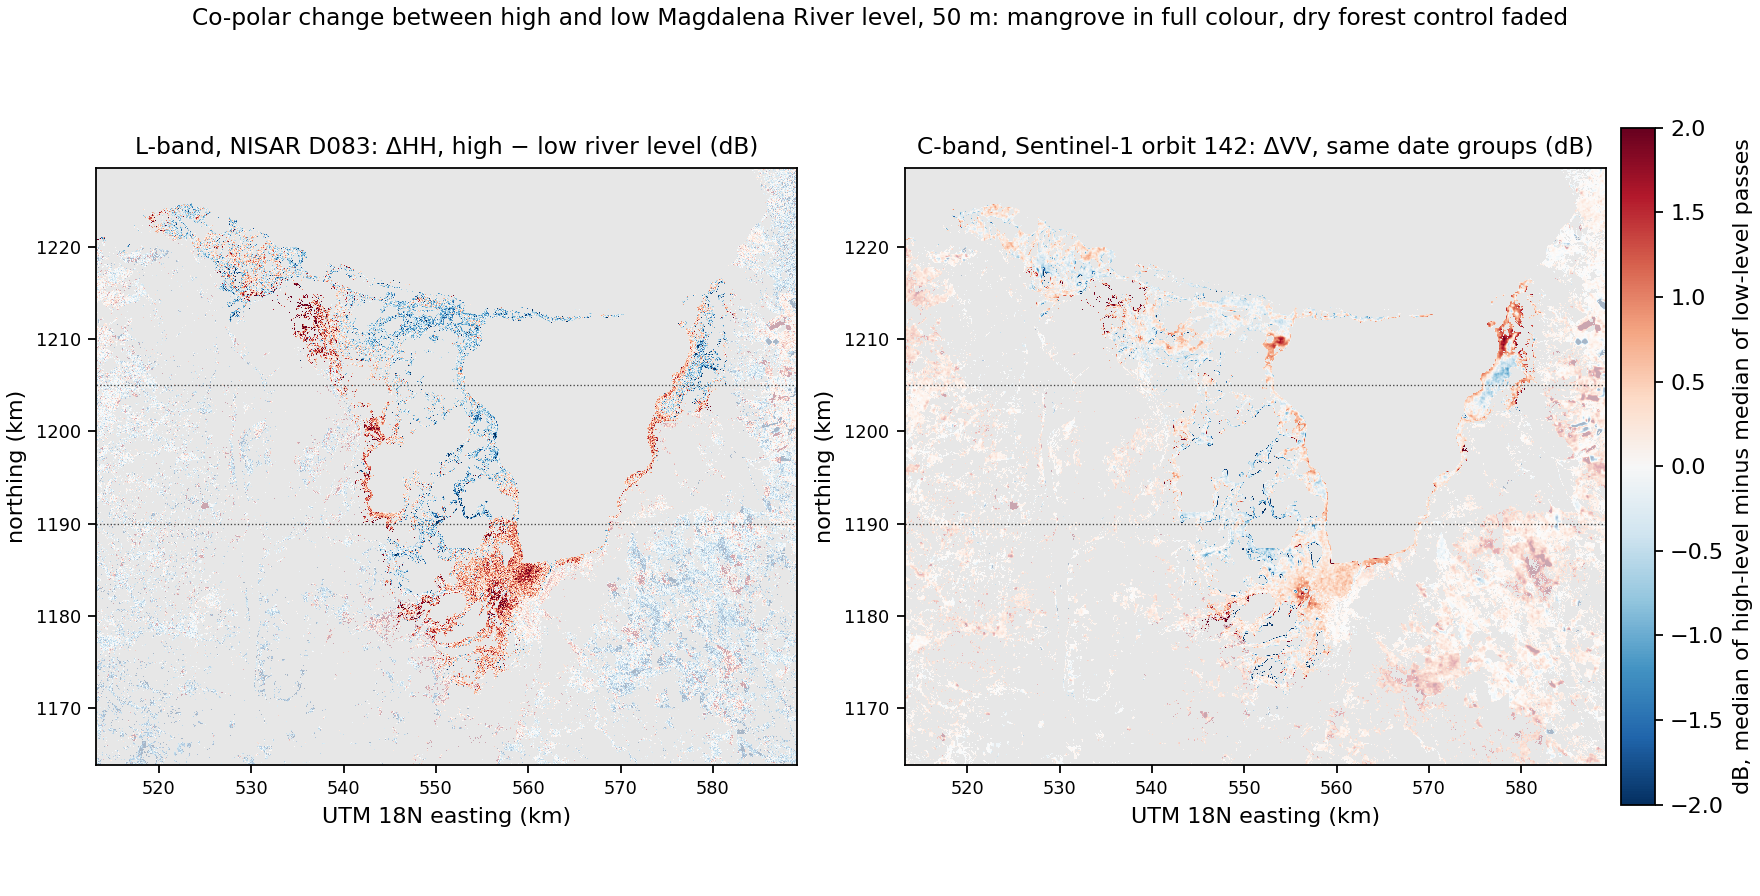
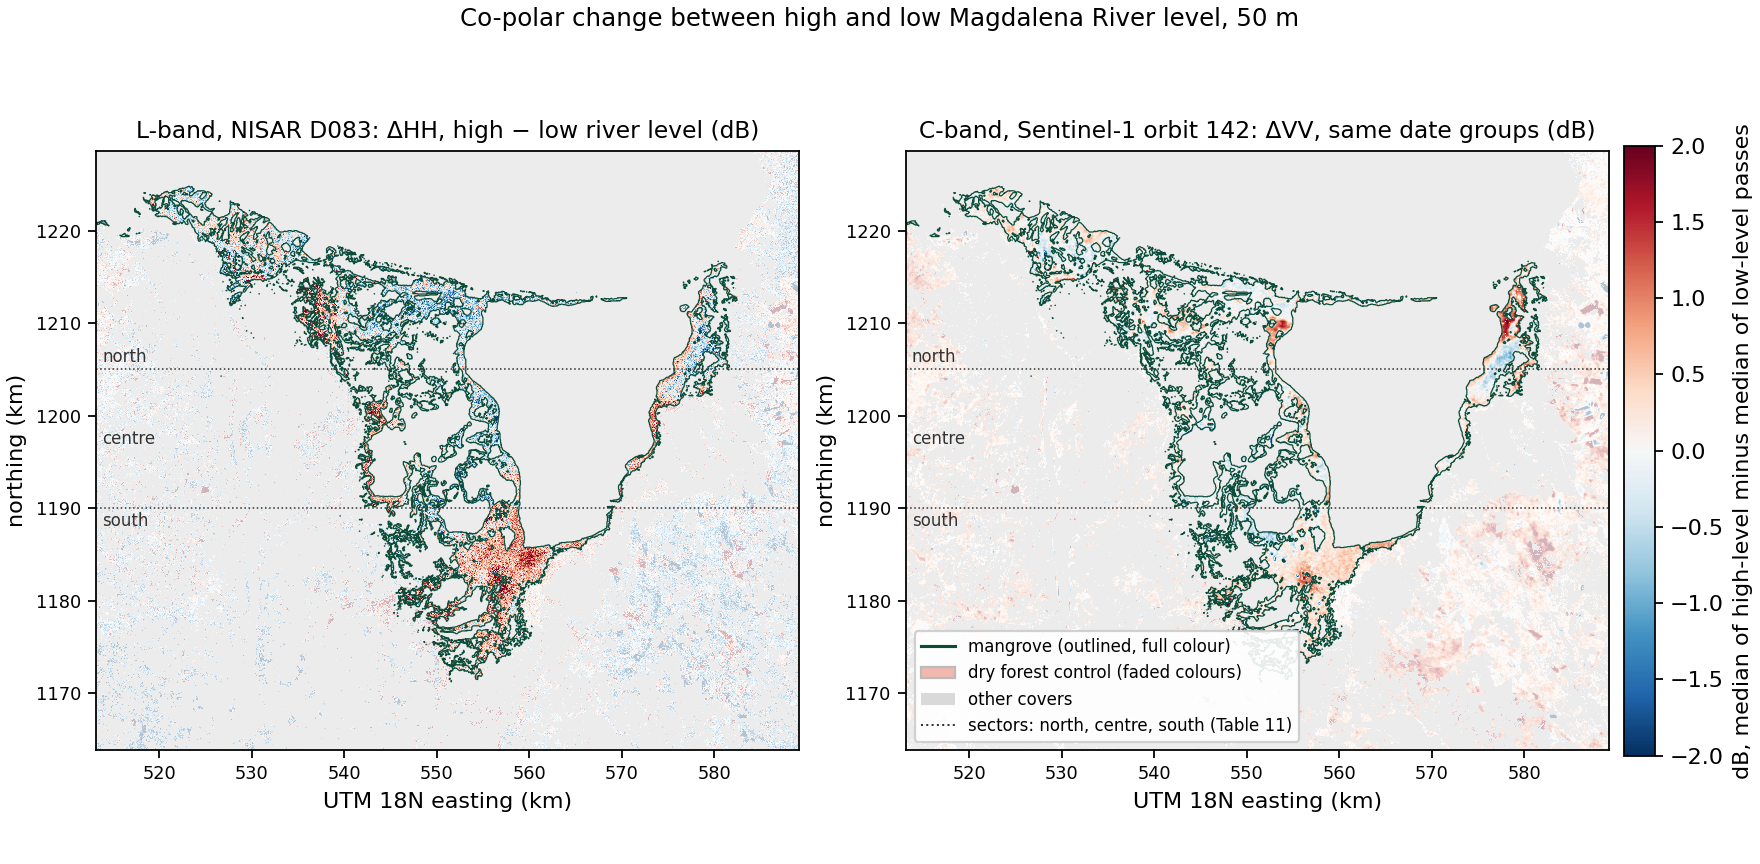
Figura 15 con contorno del manglar y leyenda; script de redibujado

Changed region(s): [[0.0, 0.125, 1.0, 0.9375], [0.0938, 0.0, 0.9062, 0.0312]]

diff --git a/scripts/figura_mapa_c_vs_l.py b/scripts/figura_mapa_c_vs_l.py
@@ -1,0 +1,74 @@
+# -*- coding: utf-8 -*-
+"""Redibuja la Figura 15 (ΔHH de NISAR frente a ΔVV de Sentinel-1) con contornos de cobertura y leyenda.
+
+PROPÓSITO
+    Hacer distinguible el manglar (contorno) del bosque de control (atenuado) en el mapa de las dos bandas.
+DATOS
+    mapa_doble_rebote_50m.tif (banda 1 ΔHH, banda 4 clase) y mapa_s1_alto_bajo_50m.tif (banda 1 ΔVV),
+    ya calculados por mapa_doble_rebote.py y mapa_doble_rebote_s1.py. No recalcula nada.
+MÉTODO
+    Mismo color y escala que antes (RdBu_r, ±2 dB). Manglar a todo color con contorno verde oscuro;
+    bosque de control atenuado sin contorno (demasiado fragmentado); leyenda y rótulos de sectores.
+SALIDAS
+    fig_mapa_c_vs_l.png (reemplaza la versión anterior sin contornos)
+USO
+    python figura_mapa_c_vs_l.py
+LIMITACIÓN
+    Los contornos se trazan sobre la malla de 50 m, así que el borde es escalonado a esa resolución.
+"""
+import importlib.util
+import os
+
+os.environ["PROJ_DATA"] = os.path.join(importlib.util.find_spec("rasterio").submodule_search_locations[0], "proj_data")
+import matplotlib
+matplotlib.use("Agg")
+import matplotlib.pyplot as plt
+import numpy as np
+import rasterio
+from matplotlib.lines import Line2D
+from matplotlib.patches import Patch
+from scipy.ndimage import binary_closing
+
+AQUI = os.path.dirname(os.path.abspath(__file__))
+VERDE, MARRON = "#0b4d3a", "#7a4a1d"
+SECTORES = [1205e3, 1190e3]
+
+with rasterio.open(os.path.join(AQUI, "mapa_doble_rebote_50m.tif")) as src:
+    d_hh, cl = src.read(1), src.read(4).astype(int)
+    x0, y0 = src.transform.c, src.transform.f
+with rasterio.open(os.path.join(AQUI, "mapa_s1_alto_bajo_50m.tif")) as src:
+    d_vv = src.read(1)
+ny, nx = d_hh.shape
+ext = [x0 / 1000, (x0 + nx * 50) / 1000, (y0 - ny * 50) / 1000, y0 / 1000]
+xc = (x0 + (np.arange(nx) + 0.5) * 50) / 1000
+yc = (y0 - (np.arange(ny) + 0.5) * 50) / 1000
+X, Y = np.meshgrid(xc, yc)
+man = binary_closing(cl == 1, iterations=1).astype(float)
+bos = binary_closing(cl == 2, iterations=1).astype(float)
+
+fig, axs = plt.subplots(1, 2, figsize=(11, 5.4), constrained_layout=True)
+for ax, (tit, a) in zip(axs, (("L-band, NISAR D083: ΔHH, high − low river level (dB)", d_hh),
+                               ("C-band, Sentinel-1 orbit 142: ΔVV, same date groups (dB)", d_vv))):
+    ax.imshow(np.where(np.isin(cl, [1, 2]), np.nan, 0.0), extent=ext, cmap="Greys", vmin=-1, vmax=1, alpha=0.18, interpolation="nearest")
+    ax.imshow(np.where(cl == 2, a, np.nan), extent=ext, cmap="RdBu_r", vmin=-2, vmax=2, alpha=0.3, interpolation="nearest")
+    im = ax.imshow(np.where(cl == 1, a, np.nan), extent=ext, cmap="RdBu_r", vmin=-2, vmax=2, interpolation="nearest")
+    ax.contour(X, Y, man, levels=[0.5], colors=[VERDE], linewidths=0.55)
+    for yy in SECTORES:
+        ax.axhline(yy / 1000, color="#333333", lw=0.7, ls=":")
+    ax.set_title(tit, fontsize=10.5)
+    ax.set_xlabel("UTM 18N easting (km)"); ax.set_ylabel("northing (km)"); ax.tick_params(labelsize=8)
+    ax.set_aspect("equal")
+for ax in axs:
+    ax.text(ext[0] + 0.6, 1205.4, "north", ha="left", va="bottom", fontsize=7.5, color="#333333")
+    ax.text(ext[0] + 0.6, 1197.5, "centre", ha="left", va="center", fontsize=7.5, color="#333333")
+    ax.text(ext[0] + 0.6, 1189.6, "south", ha="left", va="top", fontsize=7.5, color="#333333")
+cb = fig.colorbar(im, ax=axs, shrink=0.75, pad=0.01)
+cb.set_label("dB, median of high-level minus median of low-level passes")
+leyenda = [Line2D([0], [0], color=VERDE, lw=1.4, label="mangrove (outlined, full colour)"),
+           Patch(facecolor="#f2b8b0", edgecolor="#bbbbbb", label="dry forest control (faded colours)"),
+           Patch(facecolor="#d9d9d9", edgecolor="none", label="other covers"),
+           Line2D([0], [0], color="#333333", lw=0.9, ls=":", label="sectors: north, centre, south (Table 11)")]
+axs[1].legend(handles=leyenda, loc="lower left", fontsize=7.5, frameon=True, framealpha=0.9)
+fig.suptitle("Co-polar change between high and low Magdalena River level, 50 m", fontsize=11)
+fig.savefig(os.path.join(AQUI, "fig_mapa_c_vs_l.png"), dpi=160)
+print("ok fig_mapa_c_vs_l.png")
